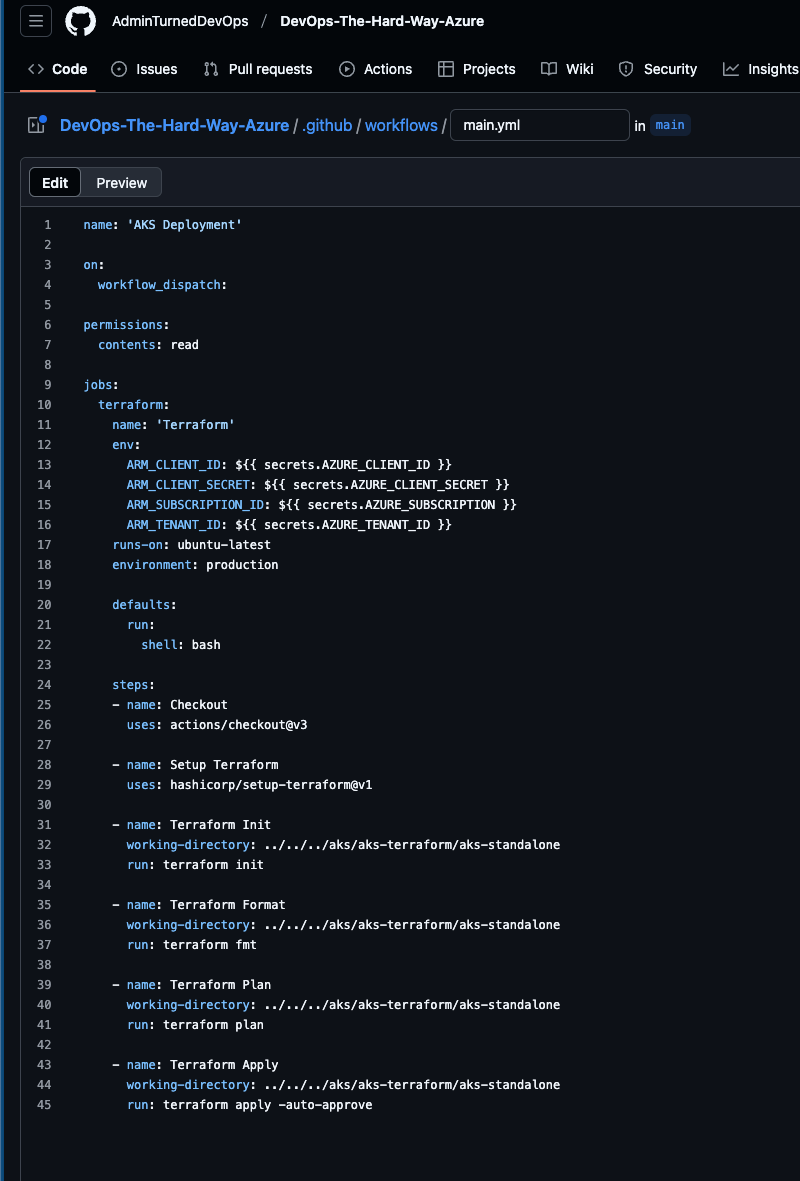
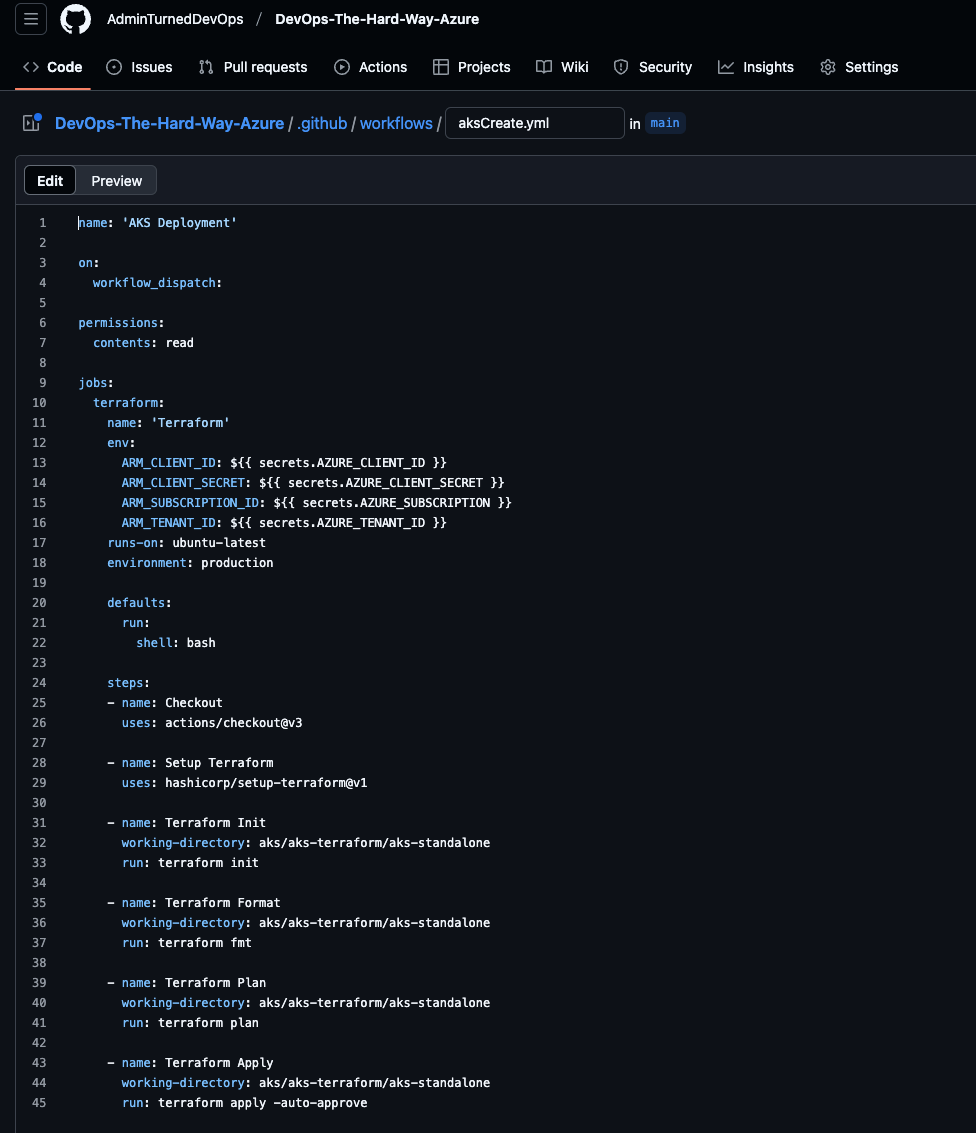
pipe

Changed region(s): [[0.0, 0.0, 1.0, 1.0]]

diff --git a/automated-deployments/cicd/github_actions/pipeline.md b/automated-deployments/cicd/github_actions/pipeline.md
@@ -40,19 +40,19 @@ jobs:
       uses: hashicorp/setup-terraform@v1
 
     - name: Terraform Init
-      working-directory: ../../../aks/aks-terraform/aks-standalone
+      working-directory: aks/aks-terraform/aks-standalone
       run: terraform init
            
     - name: Terraform Format
-      working-directory: ../../../aks/aks-terraform/aks-standalone
+      working-directory: aks/aks-terraform/aks-standalone
       run: terraform fmt
 
     - name: Terraform Plan
-      working-directory: ../../../aks/aks-terraform/aks-standalone
+      working-directory: aks/aks-terraform/aks-standalone
       run: terraform plan
     
     - name: Terraform Apply
-      working-directory: ../../../aks/aks-terraform/aks-standalone
+      working-directory: aks/aks-terraform/aks-standalone
       run: terraform apply -auto-approve
 ```
 
